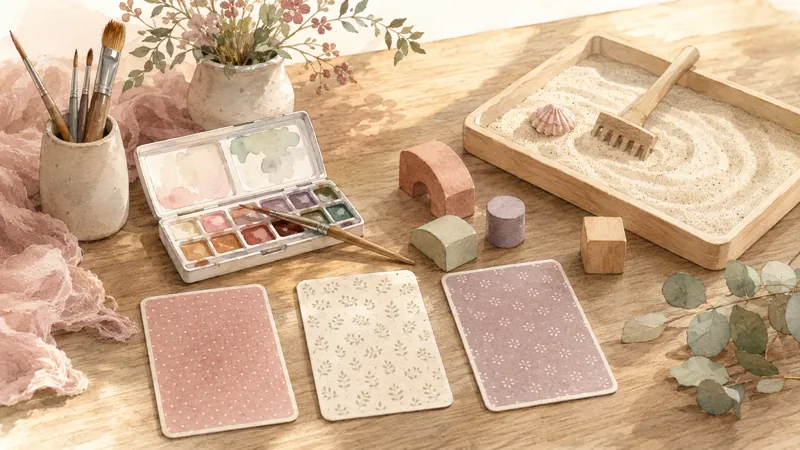
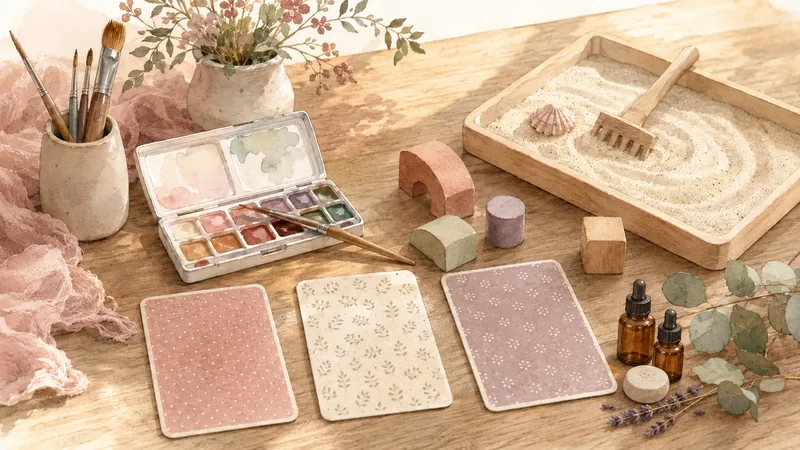
대문 첫 화면·아들러 캐릭터 카드·매체상담 아로마 추가

diff --git a/index.html b/index.html
@@ -111,6 +111,40 @@ nav {
   margin: 0;
 }
 
+/* ── 첫 화면 · 상담의 방 그림 (2026-10-18) ──
+   조합의 얼굴이 되는 자리입니다. 그림 바로 아래에 체험 띠가 이어집니다.
+   1200px 이상에서만 글을 그림 왼쪽 빈 벽(문틀 25%보다 안쪽)에 얹고, 좁으면 그림 아래로 내립니다. */
+.welcome { background: #FBF6EC; padding: 0; word-break: keep-all; overflow-wrap: break-word; }
+.welcome-inner { position: relative; max-width: 1600px; margin: 0 auto; }
+.welcome-img { display: block; width: 100%; height: auto; aspect-ratio: 1672 / 941; }
+.welcome-text { padding: 32px 24px 40px; max-width: 640px; margin: 0 auto; text-align: center; }
+.welcome-label {
+  font-family: 'Raleway', sans-serif; font-size: 13px; font-weight: 400;
+  letter-spacing: 0.3em; color: #6F9468; text-transform: uppercase;
+}
+.welcome-title {
+  font-family: 'Noto Serif KR', serif; font-weight: 400; color: #4A4038;
+  font-size: 26px; line-height: 1.55; margin: 14px 0 24px;
+}
+.welcome-btns { display: flex; gap: 10px; justify-content: center; flex-wrap: wrap; }
+.welcome-btn {
+  display: inline-block; padding: 11px 24px; border-radius: 999px; font-size: 14px;
+  text-decoration: none; transition: background 0.15s, color 0.15s;
+}
+.welcome-btn.primary { background: #7FA07A; color: #fff; }
+.welcome-btn.primary:hover { background: #6B8C66; }
+.welcome-btn.ghost { border: 1px solid #7FA07A; color: #4A4038; background: rgba(255,255,255,0.6); }
+.welcome-btn.ghost:hover { background: #fff; }
+.welcome-btn:focus-visible { outline: 2px solid #4A4038; outline-offset: 3px; }
+@media (min-width: 1200px) {
+  .welcome-text {
+    position: absolute; top: 50%; left: 3.5%; transform: translateY(-50%);
+    width: 21%; max-width: none; padding: 0; margin: 0; text-align: left;
+  }
+  .welcome-title { font-size: clamp(24px, 1.9vw, 30px); }
+  .welcome-btns { justify-content: flex-start; }
+}
+
 /* ── 마음을 알아가는 창 ── */
 /* 체험 띠는 히어로 안에 있지만 바탕색을 화면 끝까지 깔아 "여기부터는 해보는 자리"임을 눈에 보이게 나눕니다.
    그래서 .hero 의 좌우 여백을 0으로 두고 글자 요소에만 좌우 여백을 줍니다. */
@@ -161,15 +195,27 @@ section { padding: 88px 32px; }
 
 /* ── 아들러 섹션 ── */
 #adler { background: var(--rb-yellow); }
+/* 4장을 한 줄에 놓기 위해 이 구역만 넓힙니다. 캐릭터 짝은 adlermind-characters 스킬 4절 (2026-10-18). */
+#adler .section-inner { max-width: 1120px; }
 .adler-grid {
   display: grid;
-  grid-template-columns: repeat(auto-fit, minmax(240px, 1fr));
-  gap: 24px;
+  grid-template-columns: 1fr;
+  gap: 20px;
   margin-top: 8px;
+  word-break: keep-all; overflow-wrap: break-word;
 }
+@media (min-width: 600px) { .adler-grid { grid-template-columns: repeat(2, 1fr); } }
+@media (min-width: 1000px) { .adler-grid { grid-template-columns: repeat(4, 1fr); } }
 .adler-card {
   border: 0.5px solid var(--am-border);
-  padding: 28px 24px;
+  background: rgba(255,255,255,0.55);
+  border-radius: 20px;
+  padding: 18px 22px 28px;
+}
+/* width·height 속성이 있으므로 height:auto 를 꼭 둡니다. 없으면 600px 높이로 늘어납니다. */
+.adler-card-img {
+  display: block; width: 100%; max-width: 220px; height: auto; aspect-ratio: 1;
+  margin: 0 auto 16px; border-radius: 14px;
 }
 .adler-card-num {
   font-family: 'Raleway', sans-serif;
@@ -273,6 +319,28 @@ footer {
   <button class="nav-ham" id="navHam" aria-label="메뉴">&#9776;</button>
 </nav>
 
+<!-- 첫 화면 · 상담의 방 그림 (2026-10-18)
+     문 앞에서 두더지 마인이 맞이하는 장면이 조합의 첫인사입니다. 캐릭터 기준은 adlermind-characters 스킬.
+     처음 오시는 분께 낯선 낱말(생활양식·사회적 관심)은 첫인사에 쓰지 않습니다. -->
+<section class="welcome" id="welcome">
+  <div class="welcome-inner">
+    <img class="welcome-img"
+         src="image/room/room_hero.webp"
+         srcset="image/room/room_hero-900.webp 900w, image/room/room_hero.webp 1672w"
+         sizes="(max-width: 1600px) 100vw, 1600px"
+         width="1672" height="941"
+         alt="햇살이 드는 따뜻한 방. 창가에 마주 보는 의자 두 개가 놓여 있고, 문 앞에서 두더지 마인이 손을 흔들며 맞이합니다. 다람쥐 아리, 기린 루미, 사슴 단이, 거북이 토토가 방 안에 있습니다.">
+    <div class="welcome-text">
+      <div class="welcome-label">ADLER MIND</div>
+      <h1 class="welcome-title">서로 다른 우리가 만나,<br>더 아름다운 공동체를<br>이룹니다.</h1>
+      <div class="welcome-btns">
+        <a class="welcome-btn primary" href="counseling.html">상담의 방</a>
+        <a class="welcome-btn ghost" href="education.html">배움의 방</a>
+      </div>
+    </div>
+  </div>
+</section>
+
 <!-- SECTION 01: 마음을 알아가는 창 (2026-08-16 · 대문 맨 위로 올림)
      조합 소개글은 조합 소식 아래(SECTION 05)로 내렸습니다. 들어오자마자 해볼 것이
      먼저 보이고, 조합이 어떤 곳인지는 둘러본 뒤에 읽는 순서입니다. -->
@@ -308,6 +376,7 @@ footer {
     </p>
     <div class="adler-grid">
       <div class="adler-card">
+        <img class="adler-card-img" src="image/room/why_dani.webp" width="600" height="600" loading="lazy" alt="파랑새에게 꽃을 건네는 사슴 단이">
         <div class="adler-card-num">01</div>
         <div class="adler-card-title">사회적 관심</div>
         <div class="adler-card-desc">
@@ -315,6 +384,7 @@ footer {
         </div>
       </div>
       <div class="adler-card">
+        <img class="adler-card-img" src="image/room/why_mine.webp" width="600" height="600" loading="lazy" alt="돋보기로 새싹을 들여다보는 두더지 마인">
         <div class="adler-card-num">02</div>
         <div class="adler-card-title">생활양식 이해</div>
         <div class="adler-card-desc">
@@ -322,6 +392,7 @@ footer {
         </div>
       </div>
       <div class="adler-card">
+        <img class="adler-card-img" src="image/room/why_ari.webp" width="600" height="600" loading="lazy" alt="도토리를 심는 다람쥐 아리 곁에 새싹이 돋아난 모습">
         <div class="adler-card-num">03</div>
         <div class="adler-card-title">격려와 성장</div>
         <div class="adler-card-desc">
@@ -329,6 +400,7 @@ footer {
         </div>
       </div>
       <div class="adler-card">
+        <img class="adler-card-img" src="image/room/why_toto.webp" width="600" height="600" loading="lazy" alt="둥글게 놓인 돌 곁에 선 거북이 토토">
         <div class="adler-card-num">04</div>
         <div class="adler-card-title">협동조합 방식</div>
         <div class="adler-card-desc">
@@ -358,13 +430,13 @@ footer {
      체험과 소식을 둘러본 뒤 읽는 맺음말 자리입니다. -->
 <section class="intro">
   <div class="intro-sub">ADLER MIND COOPERATIVE · 2026</div>
-  <h1 class="intro-statement">
+  <h2 class="intro-statement">
     ADLER MIND 협동조합은<br>
     아들러 개인심리학의 가치를 실천하는<br>
     아들러리안 심리전문가들의 협동조합입니다.<br>
     사회적 관심과 공동체 감각을 바탕으로<br>
     심리상담과 교육을 함께 만들어갑니다.
-  </h1>
+  </h2>
 </section>
 
 <!-- 푸터 -->

diff --git a/counseling-fields.js b/counseling-fields.js
@@ -150,16 +150,16 @@ window.AM_COUNSELING_FIELDS = [
     key: 'media',
     name: '매체상담',
     image: 'image/field/media.webp',
-    imageAlt: '나무 탁자 위에 놓인 물감과 붓, 나무 블록, 모래 쟁반, 엎어둔 카드',
-    sub: '미술 · 놀이 · 모래 · 타로',
-    lead: '말로 다 담기지 않는 마음이 손끝과 그림으로 먼저 옵니다.',
+    imageAlt: '나무 탁자 위에 놓인 물감과 붓, 나무 블록, 모래 쟁반, 엎어둔 카드, 에센셜 오일 병과 라벤더',
+    sub: '미술 · 놀이 · 모래 · 타로 · 아로마',
+    lead: '말로 다 담기지 않는 마음이 손끝과 그림, 그리고 향기로 먼저 옵니다.',
     body: [
       '마음은 늘 말보다 큽니다. 설명하려 하면 자꾸 달아나고, 정작 하고 싶었던 말은 끝내 나오지 않기도 합니다.',
-      '매체는 그 사이를 이어줍니다. 그림을 그리고, 놀이하고, 모래를 만지고, 카드를 고르는 동안 말로 정리되지 않던 것들이 형태를 얻습니다.',
+      '매체는 그 사이를 이어줍니다. 그림을 그리고, 놀이하고, 모래를 만지고, 카드를 고르고, 향을 맡는 동안 말로 정리되지 않던 것들이 형태를 얻습니다.',
       '잘 그리고 못 그리고는 중요하지 않습니다. 머물고, 움직이고, 표현하는 그 과정에서 마음에 잠겨 있던 이야기들이 생명을 얻습니다.',
       '아들러가 말한 창조적 자아 — 주어진 것을 재료 삼아 자기 삶을 만들어내는 힘 — 이 가장 잘 드러나는 자리이기도 합니다.'
     ],
-    stepsTitle: '네 가지 길',
+    stepsTitle: '다섯 가지 길',
     steps: [
       { no: '미술', title: '그림은 마음을 비추는 거울',
         text: '언어 표현이 아직 서툰 아이에게 그림은 마음을 비추는 맑은 거울이 됩니다. 감정을 말로 꺼내는 것이 어색한 어른에게도, 쏟아낼 수 없던 막연한 느낌을 있는 그대로 만나게 해줍니다.' },
@@ -168,7 +168,10 @@ window.AM_COUNSELING_FIELDS = [
       { no: '모래', title: '설명 없이 말하는 것들',
         text: '모래상자 위에 놓이는 것들은 설명 없이도 많은 것을 말합니다. 무엇을 고르고 어디에 두는지, 그 선택 하나하나에 지금의 마음이 담깁니다.' },
       { no: '타로', title: '답이 아니라 질문을 건네는 도구',
-        text: '점을 보는 자리가 아닙니다. 78장의 그림은 삶의 크고 작은 장면을 담고 있고, 하나의 답에만 매여 있던 생각에 미처 보지 못한 다른 관점을 펼쳐 보입니다.' }
+        text: '점을 보는 자리가 아닙니다. 78장의 그림은 삶의 크고 작은 장면을 담고 있고, 하나의 답에만 매여 있던 생각에 미처 보지 못한 다른 관점을 펼쳐 보입니다.' },
+      // 2026-10-18 추가. 효과를 약속하는 말(치료한다·낫게 한다)은 쓰지 않습니다.
+      { no: '아로마', title: '향기가 먼저 마음을 엽니다',
+        text: '향은 생각보다 먼저 마음에 닿습니다. 어떤 향에 끌리고 어떤 향이 낯선지 고르다 보면, 지금 내 마음이 무엇을 바라는지 조용히 드러납니다. 몸이 긴장을 내려놓으면 말하기 어렵던 이야기도 한결 편하게 꺼낼 수 있습니다.' }
     ],
     extra: {
       title: '함께하는 자리',
@@ -178,12 +181,21 @@ window.AM_COUNSELING_FIELDS = [
       '말로 설명하기가 어렵거나 부담스러운 분',
       '언어 표현이 아직 서툰 아동·청소년',
       '감정을 꺼내는 것이 어색한 분',
-      '익숙한 생각의 틀에서 벗어나 다른 관점을 만나고 싶은 분'
+      '익숙한 생각의 틀에서 벗어나 다른 관점을 만나고 싶은 분',
+      '긴장을 내려놓고 편안하게 시작하고 싶은 분'
     ],
-    note: {
-      title: '배우고 싶으신 분께',
-      text: '타로를 상담과 자기이해에 쓰고 싶은 분들을 위한 연수 과정도 엽니다. 자세한 내용은 배움의 방 「맞춤형 특강」에서 안내합니다.',
-      link: { href: 'education.html', label: '배움의 방 보기' }
-    }
+    // 안내 상자는 여러 개를 둘 수 있습니다(room-view.js 가 배열도 받습니다 · 2026-10-18).
+    note: [
+      {
+        title: '배우고 싶으신 분께',
+        text: '타로를 상담과 자기이해에 쓰고 싶은 분들을 위한 연수 과정도 엽니다. 자세한 내용은 배움의 방 「맞춤형 특강」에서 안내합니다.',
+        link: { href: 'education.html', label: '배움의 방 보기' }
+      },
+      {
+        title: '향으로 먼저 만나 보세요',
+        text: '향을 고르며 지금의 감정을 만나 보는 체험 「마음을 위로하는 향기」를 먼저 해 보실 수 있습니다. 에센셜 오일은 임신 중이거나 알레르기가 있는 분, 어린이에게는 조심해서 씁니다. 상담 전에 미리 여쭙고 맞는 향만 사용합니다.',
+        link: { href: 'experience.html?key=emotional-aromatherapy', label: '체험해 보기' }
+      }
+    ]
   }
 ];

diff --git a/counseling.html b/counseling.html
@@ -88,11 +88,11 @@ nav {
 }
 
 /* 아들러 상담은 이런 상담입니다 · 2026-10-18
-   그림 바탕(크림)에 맞춘 색입니다. 브랜드 팔레트를 억지로 맞추지 않았습니다. */
+   그림 바탕(크림)에 맞춘 색입니다. 브랜드 팔레트를 억지로 맞추지 않았습니다.
+   상담의 방 큰 그림은 같은 날 대문 첫 화면으로 옮겼습니다. 여기는 글과 카드만 둡니다. */
 .ac-intro { background: #FBF6EC; word-break: keep-all; overflow-wrap: break-word; }
-.ac-hero { position: relative; max-width: 1600px; margin: 0 auto; }
-.ac-hero-img { display: block; width: 100%; height: auto; aspect-ratio: 1672 / 941; }
-.ac-hero-text { padding: 32px 24px 8px; max-width: 640px; margin: 0 auto; }
+.ac-hero { max-width: 1600px; margin: 0 auto; }
+.ac-hero-text { padding: 64px 24px 8px; max-width: 640px; margin: 0 auto; text-align: center; }
 .ac-label {
   font-family: 'Raleway', sans-serif; font-size: 13px; font-weight: 400;
   letter-spacing: 0.3em; color: #6F9468; text-transform: uppercase;
@@ -110,15 +110,6 @@ nav {
 }
 .ac-btn:hover { background: #6B8C66; }
 .ac-btn:focus-visible { outline: 2px solid #4A4038; outline-offset: 3px; }
-/* 넓은 화면에서는 그림 왼쪽 빈 벽에 글을 얹습니다. 문틀(그림 폭 25%)보다 안쪽에 둡니다. */
-@media (min-width: 1200px) {
-  .ac-hero-text {
-    position: absolute; top: 50%; left: 3.5%; transform: translateY(-50%);
-    width: 21%; max-width: none; padding: 0; margin: 0;
-  }
-  .ac-title { font-size: clamp(24px, 2vw, 32px); }
-  .ac-lead { font-size: 14px; }
-}
 .ac-features { max-width: 1120px; margin: 0 auto; padding: 56px 24px 24px; }
 .ac-features-head { text-align: center; margin-bottom: 32px; }
 .ac-features-title { font-family: 'Noto Serif KR', serif; font-weight: 400; font-size: 22px; color: #4A4038; margin-top: 12px; }
@@ -169,12 +160,6 @@ nav {
      분야 하나를 열면 이 구역도 숨습니다. 캐릭터 기준은 adlermind-characters 스킬. -->
 <section class="ac-intro" id="adlerIntro">
   <div class="ac-hero">
-    <img class="ac-hero-img"
-         src="image/room/room_hero.webp"
-         srcset="image/room/room_hero-900.webp 900w, image/room/room_hero.webp 1672w"
-         sizes="(max-width: 1600px) 100vw, 1600px"
-         width="1672" height="941"
-         alt="햇살이 드는 상담의 방. 창가에 마주 보는 의자 두 개가 놓여 있고, 문 앞에서 두더지 마인이 손을 흔들며 맞이합니다. 다람쥐 아리, 기린 루미, 사슴 단이, 거북이 토토가 방 안에 있습니다.">
     <div class="ac-hero-text">
       <div class="ac-label">Adlerian Counseling</div>
       <h1 class="ac-title">아들러 상담은<br>이런 상담입니다</h1>

diff --git a/room-view.js b/room-view.js
@@ -237,17 +237,19 @@
 
       if (field.closing) box.appendChild(element('p', 'amr-closing', field.closing));
 
-      if (field.note) {
+      // note 는 하나(객체)이거나 여럿(배열)일 수 있습니다. 옛 원고는 고치지 않아도 됩니다 (2026-10-18).
+      const notes = !field.note ? [] : Array.isArray(field.note) ? field.note : [field.note];
+      notes.forEach(item => {
         const note = element('div', 'amr-note');
-        note.appendChild(element('div', 'amr-note-t', field.note.title));
-        note.appendChild(element('p', null, field.note.text));
-        if (field.note.link) {
-          const link = element('a', null, field.note.link.label + ' →');
-          link.href = field.note.link.href;
+        note.appendChild(element('div', 'amr-note-t', item.title));
+        note.appendChild(element('p', null, item.text));
+        if (item.link) {
+          const link = element('a', null, item.link.label + ' →');
+          link.href = item.link.href;
           note.appendChild(link);
         }
         box.appendChild(note);
-      }
+      });
 
       box.appendChild(element('p', 'amr-online',
         '온라인으로도 만납니다. Zoom 화상상담으로 진행할 수 있으며, ' +
